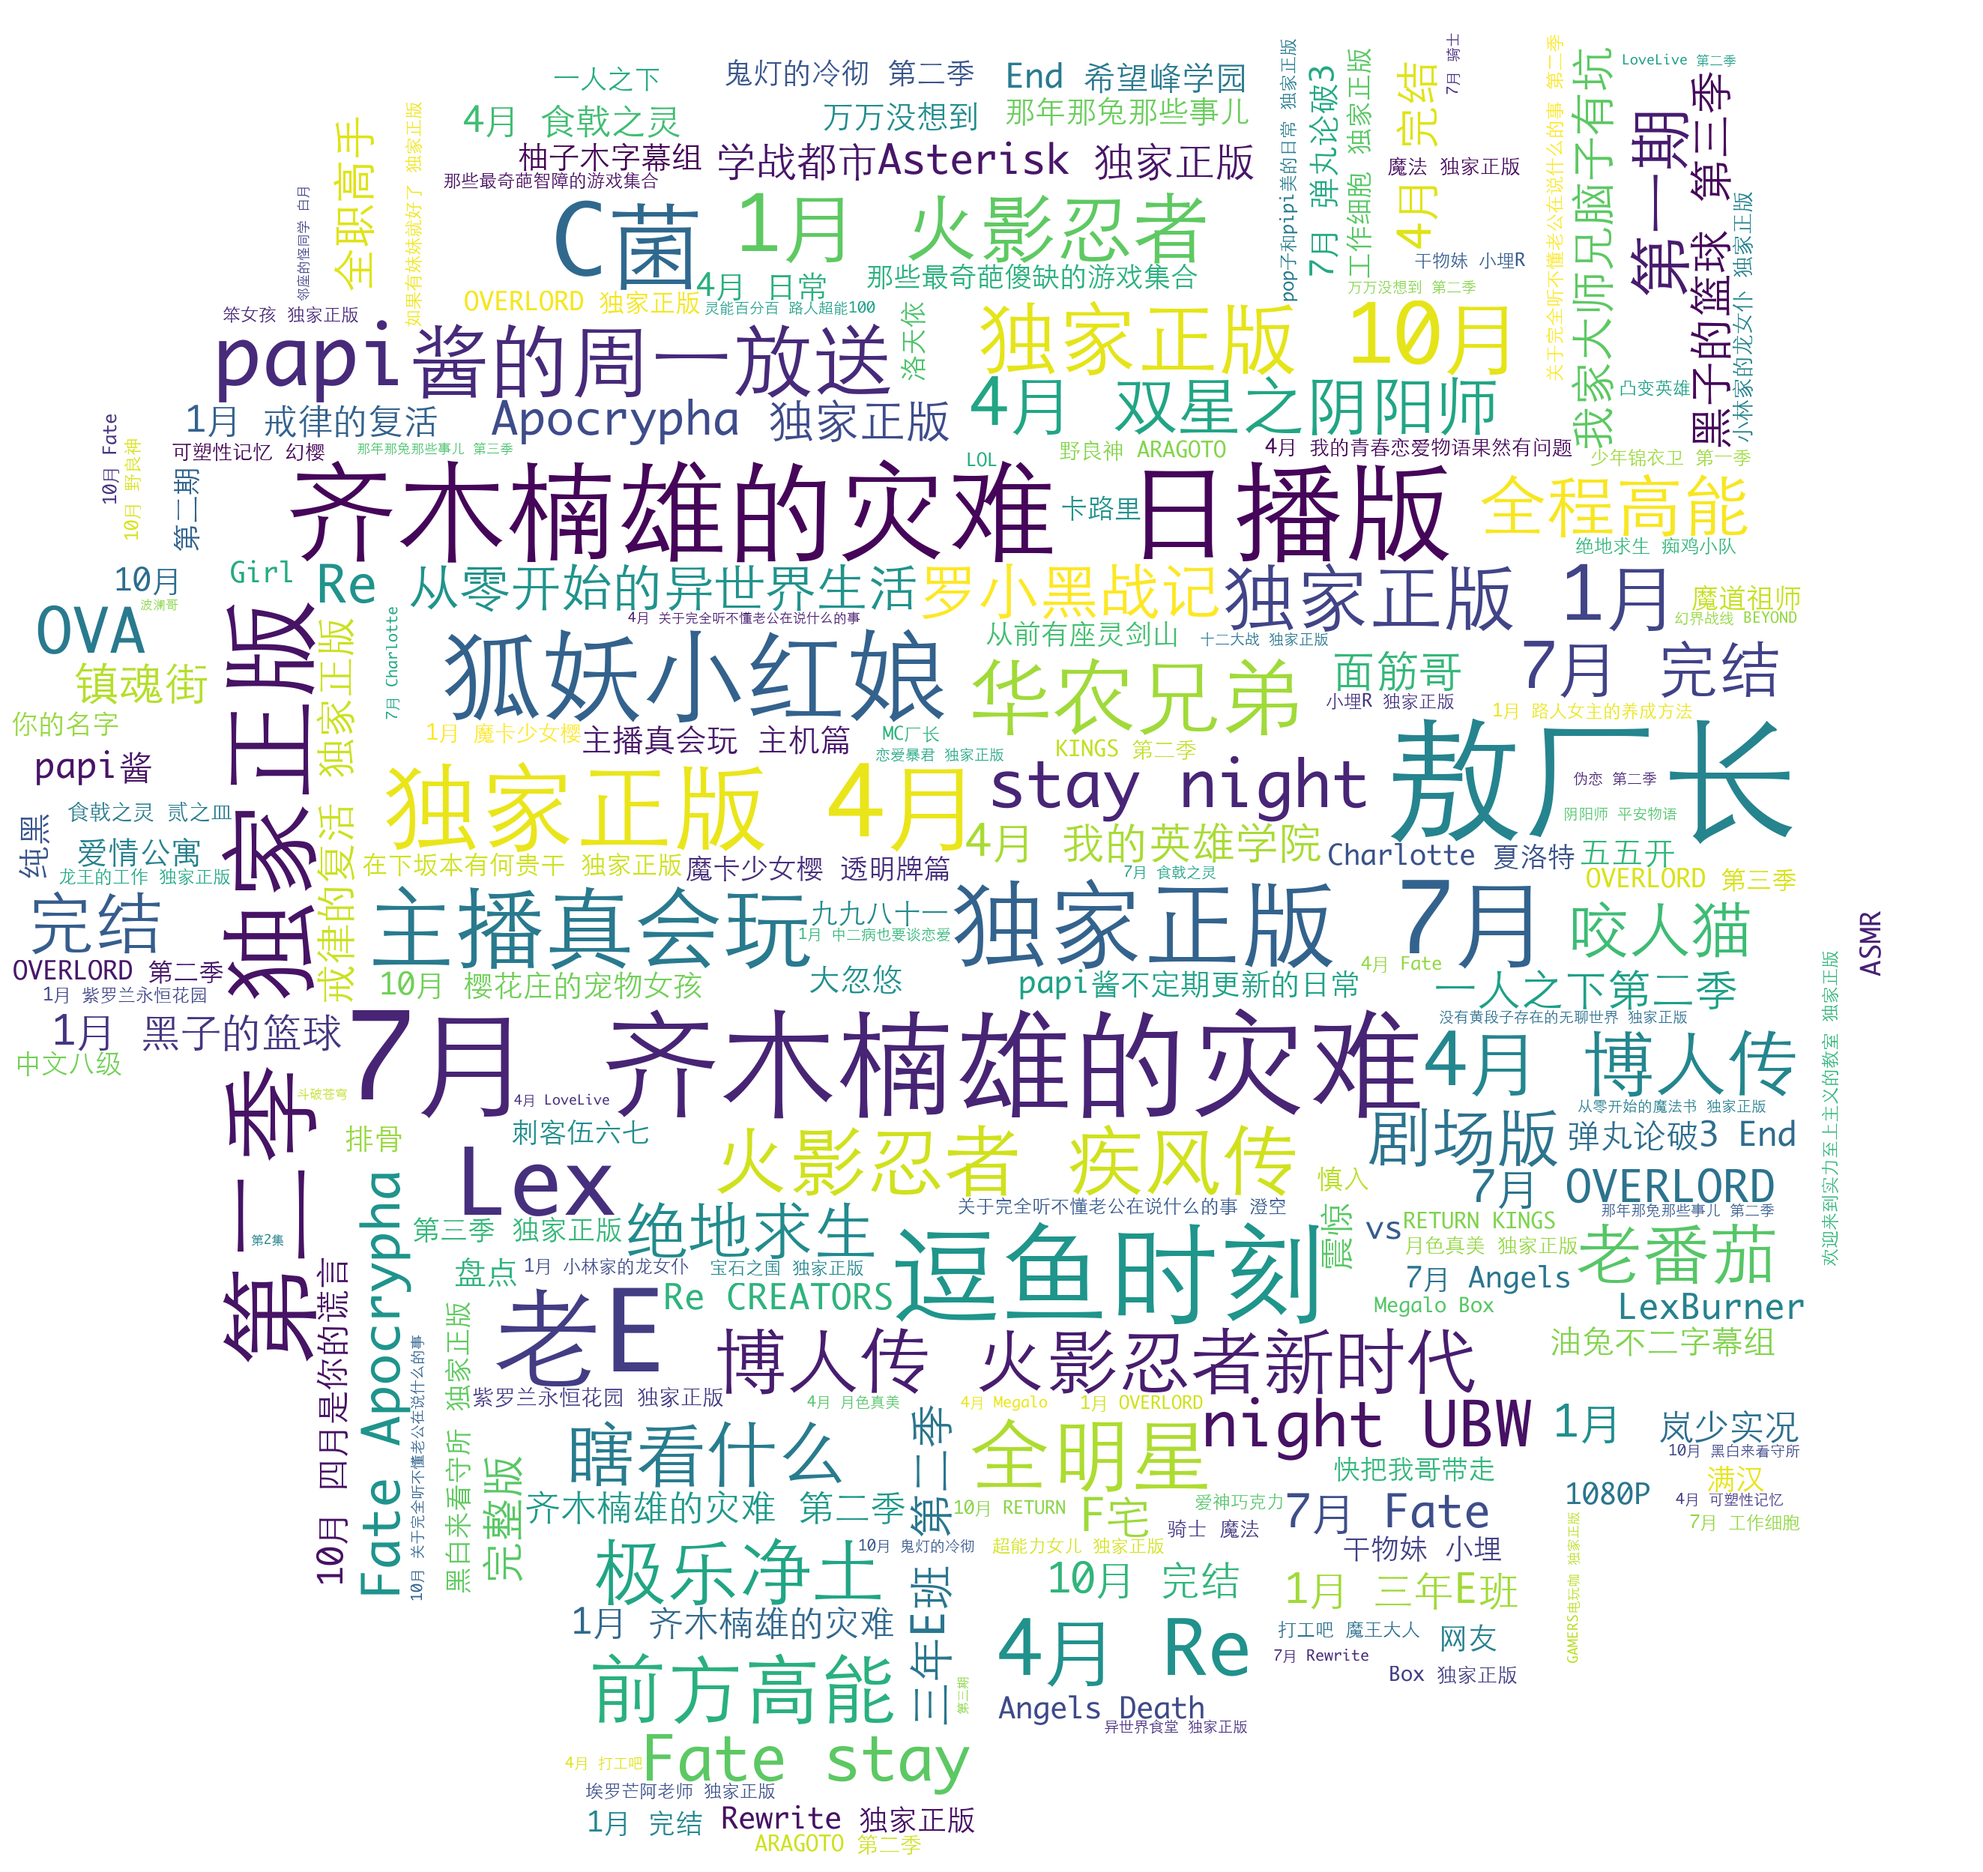
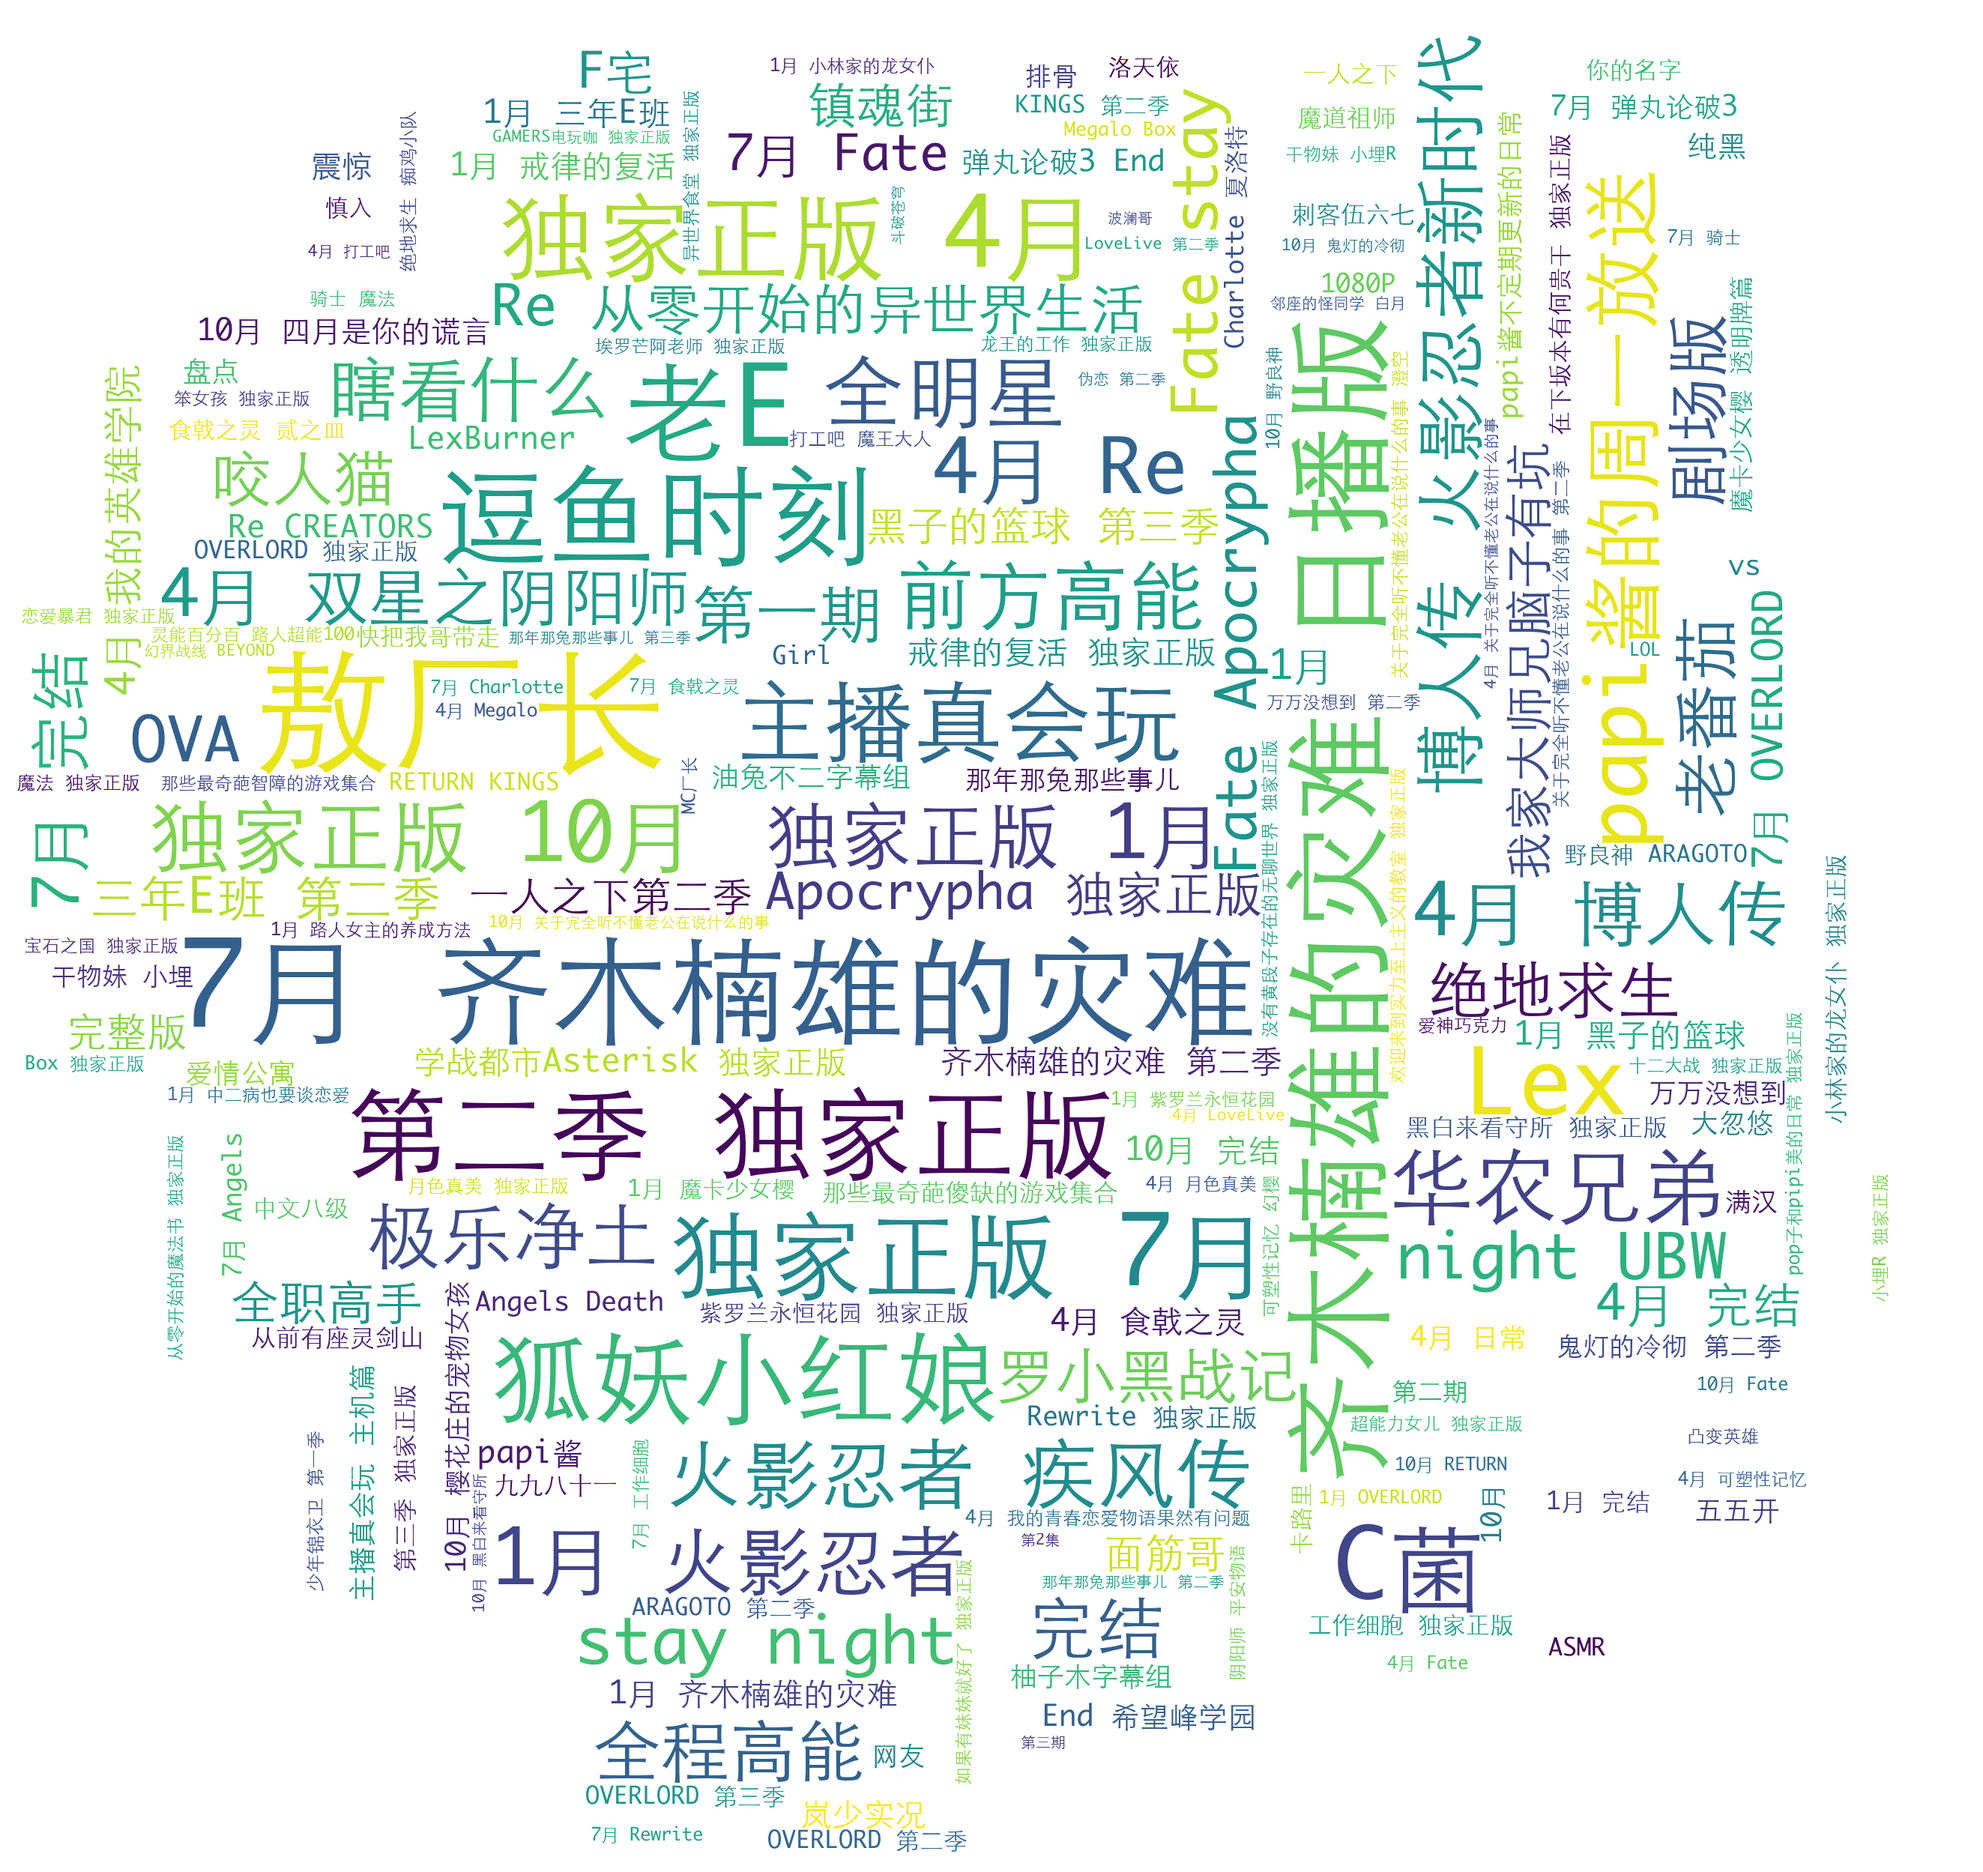
word cloud

Changed region(s): [[0.0, 0.0, 0.9607, 0.9992], [0.7748, 0.8743, 0.8057, 0.9055]]

diff --git a/visual/wordclude.py b/visual/wordclude.py
@@ -16,13 +16,11 @@ if __name__ == "__main__":
     db.close()
 
     title = " ".join(titles)
-    cut_text= jieba.cut(title, cut_all=False)
-    result= "/".join(cut_text)
-    # print(result)
+    # print(title)
 
     image = Image.open("assets/mask.png")
     graph = np.array(image)
     # wc = WordCloud(font_path="MonacoYahei.ttf", background_color='white',width=1080,height=1080)
-    wc = WordCloud(font_path="assets/MonacoYahei.ttf", background_color='white',mask=graph)
+    wc = WordCloud(font_path="assets/MonacoYahei.ttf", background_color='white', mask=graph)
     wc.generate(title)
     wc.to_file("assets/wordcloud.png")
